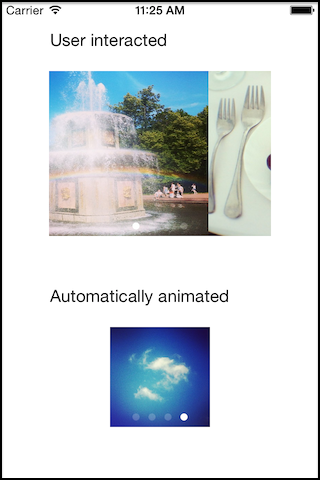
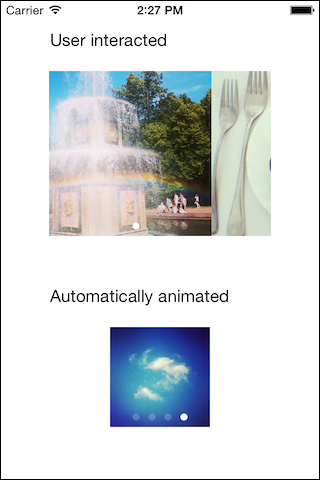
images content mode fix

diff --git a/Classes/MAKImageGalleryView.m b/Classes/MAKImageGalleryView.m
@@ -14,6 +14,7 @@ static NSString *const kImageCellReusableId = @"imageCell";
 
 @interface MAKImageGalleryViewImageCell : UICollectionViewCell
 @property (strong, nonatomic) UIImage *image;
+@property (assign, nonatomic) UIViewContentMode imageContentMode;
 @property (strong, nonatomic) NSOperation *imageLoadingOperation;
 @property (assign, nonatomic) NSUInteger blockLoadingId;
 @end
@@ -156,7 +157,7 @@ static NSString *const kImageCellReusableId = @"imageCell";
     
     
     if ([self.imageGalleryDataSource respondsToSelector:@selector(imageGallery:contentModeForImageAtIndex:)]) {
-        res.contentMode = [self.imageGalleryDataSource imageGallery:self contentModeForImageAtIndex:indexPath.row];
+        res.imageContentMode = [self.imageGalleryDataSource imageGallery:self contentModeForImageAtIndex:indexPath.row];
     }
     return res;
 }
@@ -243,11 +244,13 @@ static NSString *const kImageCellReusableId = @"imageCell";
 
 @implementation MAKImageGalleryViewImageCell {
     UIImageView *_imageView;
+    UIViewContentMode _imageContentMode;
 }
 - (void)setImage:(UIImage *)image {
     if (_imageView == nil) {
         _imageView = [[UIImageView alloc] initWithFrame:self.bounds];
         _imageView.autoresizingMask = UIViewAutoresizingFlexibleWidth | UIViewAutoresizingFlexibleHeight;
+        _imageView.contentMode = self.imageContentMode;
         [self addSubview:_imageView];
     }
     _imageView.image = image;
@@ -258,9 +261,16 @@ static NSString *const kImageCellReusableId = @"imageCell";
 }
 
 - (void)prepareForReuse {
-    _imageView.image = nil;
     [_imageLoadingOperation cancel];
+    _imageView.image = nil;
     _imageLoadingOperation = nil;
     _blockLoadingId = 0;
+    _imageContentMode = UIViewContentModeScaleToFill;
+    _imageView.contentMode = _imageContentMode;
+}
+
+- (void)setImageContentMode:(UIViewContentMode)imageContentMode {
+    _imageContentMode = imageContentMode;
+    _imageView.contentMode = imageContentMode;
 }
 @end
